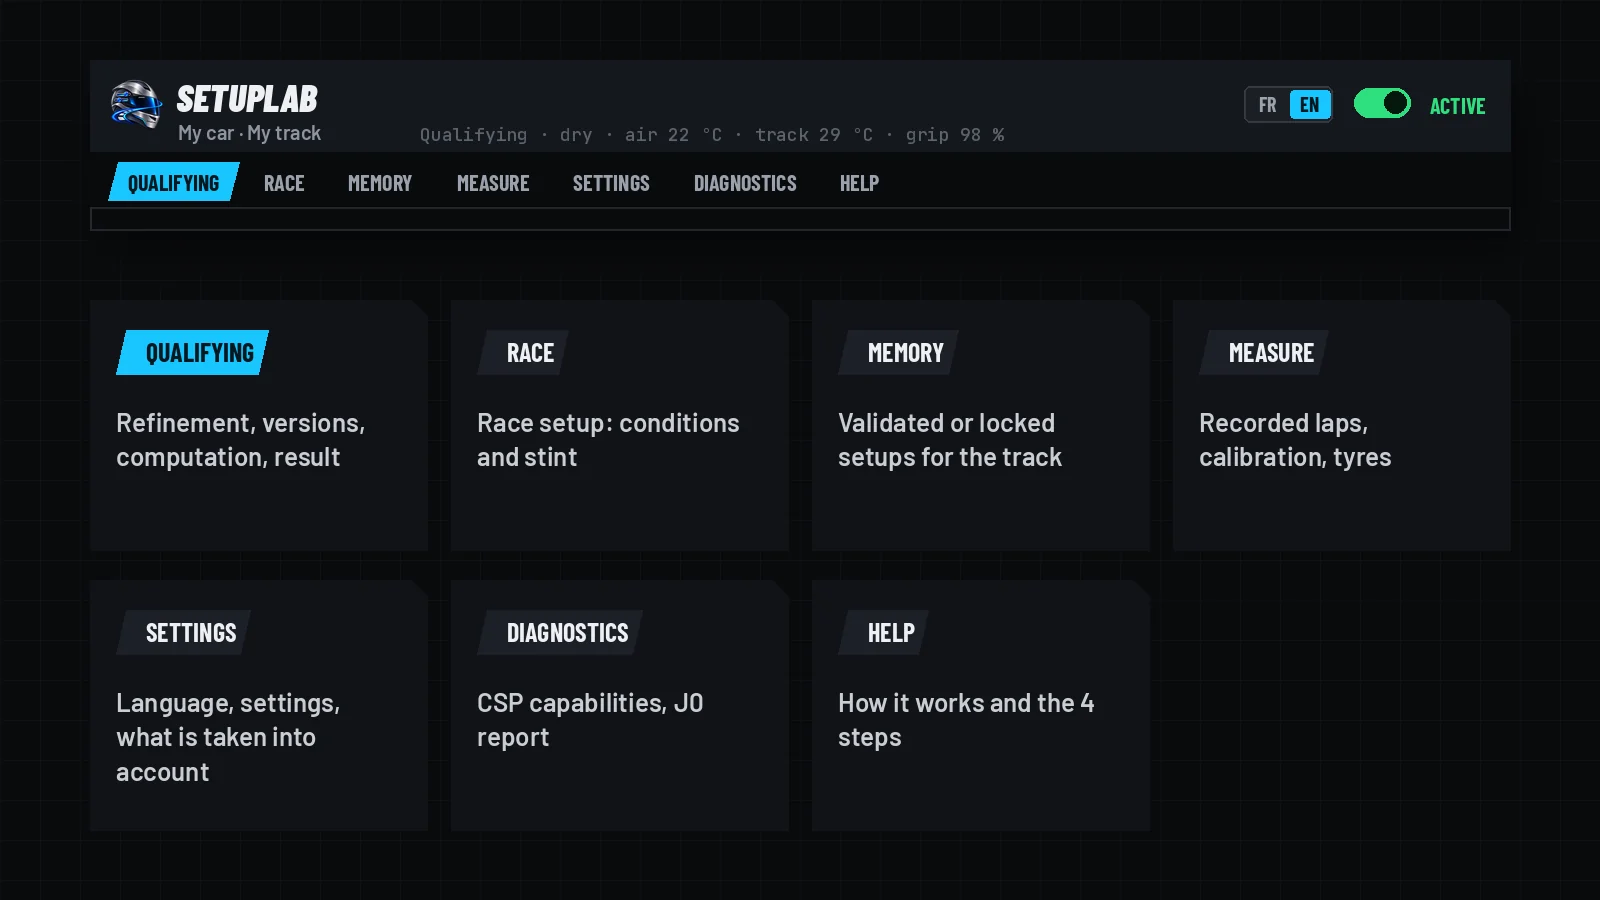
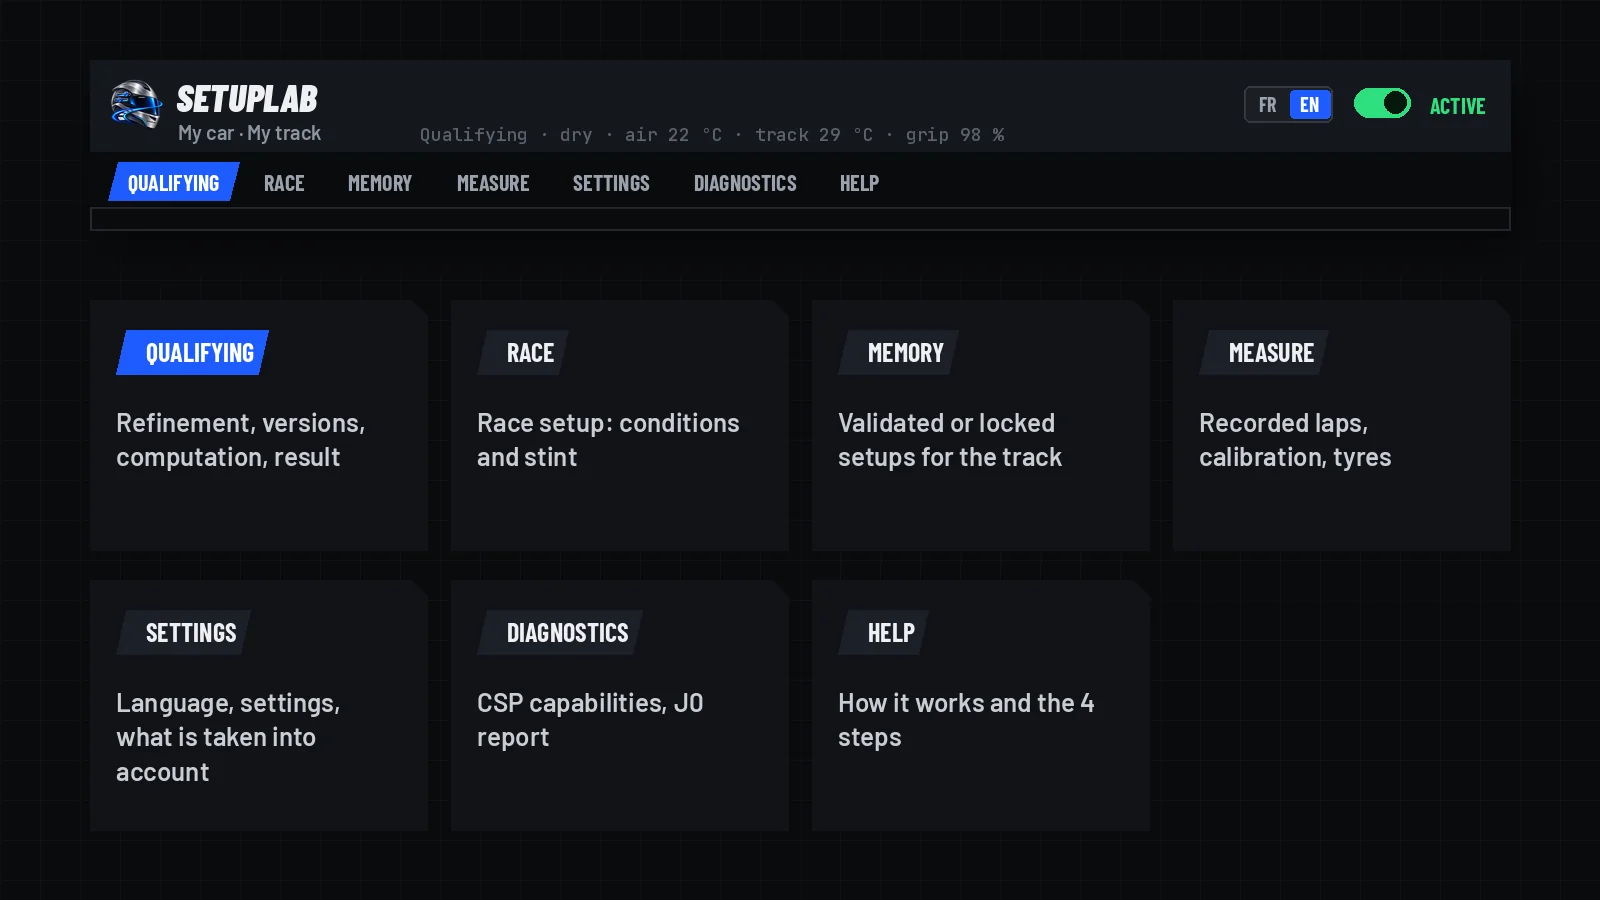
Notice SetupLab : bleu du casque de la bannière
Claude-Session: https://claude.ai/code/session_01S9ENfjK2yy9rx4wsDnry6u

Changed region(s): [[0.0625, 0.3422, 0.1875, 0.4356], [0.0625, 0.1556, 0.1562, 0.2489], [0.7812, 0.0933, 0.8438, 0.1556]]

diff --git a/index.html b/index.html
@@ -15,7 +15,7 @@
 @font-face{font-family:'Barlow Condensed';src:url(fonts/barlowc-700.woff2) format('woff2');font-weight:700;font-display:swap}
 @font-face{font-family:'Barlow Condensed';src:url(fonts/barlowc-800i.woff2) format('woff2');font-weight:800;font-style:italic;font-display:swap}
 @font-face{font-family:'JetBrains Mono';src:url(fonts/jbmono-500.woff2) format('woff2');font-weight:500;font-display:swap}
-:root{--bg:#0A0B0E;--bg2:#0d0f13;--panel:#111318;--panel2:#17191E;--line:#23272E;--line2:#3A404C;--cy:#18C5FF;--cy2:#6FDBFF;--cyd:#0E4258;
+:root{--bg:#0A0B0E;--bg2:#0d0f13;--panel:#111318;--panel2:#17191E;--line:#23272E;--line2:#3A404C;--bl:#1F5CFF;--cy:#5B8CFF;--cy2:#8FB0FF;--cyd:#14307A;
 --tx:#EEF0F3;--tx2:#C9CDD3;--mut:#8D94A0;--dim:#5C626C;--or:#FFC23D;--gr:#2EE07F;--rd:#FF5A4E;--yl:#FFC23D;--vi:#B26CFF;
 --r:14px;--r2:10px;--head:64px;--ease:cubic-bezier(.2,.7,.2,1);--sh:0 10px 30px -12px rgba(0,0,0,.6)}
 *,*::before,*::after{box-sizing:border-box}
@@ -24,7 +24,7 @@ html{scroll-behavior:smooth;scroll-padding-top:calc(var(--head) + 16px);-webkit-
 body{margin:0;overflow-anchor:none;background:var(--bg);color:var(--tx);font:400 17px/1.6 Barlow,system-ui,sans-serif;overflow-x:hidden}
 img,video{display:block;max-width:100%}
 a{color:var(--cy);text-decoration:none}a:hover{color:var(--cy2)}
-code{font:500 .86em/1.4 'JetBrains Mono',ui-monospace,monospace;color:var(--cy2);background:#06222D;border:1px solid #0E4258;border-radius:6px;padding:.05em .38em;overflow-wrap:anywhere}
+code{font:500 .86em/1.4 'JetBrains Mono',ui-monospace,monospace;color:var(--cy2);background:#0A1638;border:1px solid #1A3270;border-radius:6px;padding:.05em .38em;overflow-wrap:anywhere}
 :focus-visible{outline:2px solid var(--cy);outline-offset:3px;border-radius:6px}
 .sr{position:absolute;width:1px;height:1px;overflow:hidden;clip:rect(0 0 0 0);white-space:nowrap}
 .h{font-family:'Barlow Condensed',sans-serif;font-weight:800;font-style:italic;letter-spacing:.01em;text-transform:uppercase;line-height:1}
@@ -40,7 +40,7 @@ code{font:500 .86em/1.4 'JetBrains Mono',ui-monospace,monospace;color:var(--cy2)
 .search input{width:100%;height:42px;border-radius:12px;border:1px solid var(--line2);background:var(--panel);color:var(--tx);font:400 16px Barlow;padding:0 72px 0 42px;transition:border-color .2s,box-shadow .2s}
 .search input::placeholder{color:var(--dim)}
 .search input::-webkit-search-cancel-button{-webkit-appearance:none;appearance:none}
-.search input:focus{outline:none;border-color:var(--cy);box-shadow:0 0 0 4px rgba(24,197,255,.15)}
+.search input:focus{outline:none;border-color:var(--cy);box-shadow:0 0 0 4px rgba(31,92,255,.15)}
 .search svg{position:absolute;left:13px;top:50%;translate:0 -50%;width:18px;height:18px;color:var(--mut);pointer-events:none}
 .search kbd{position:absolute;right:10px;top:50%;translate:0 -50%;font:500 12px 'JetBrains Mono';color:var(--mut);border:1px solid var(--line2);border-radius:6px;padding:2px 7px;pointer-events:none}
 .search .count{position:absolute;right:12px;top:50%;translate:0 -50%;font:500 12px 'JetBrains Mono';color:var(--cy)}
@@ -49,7 +49,7 @@ code{font:500 .86em/1.4 'JetBrains Mono',ui-monospace,monospace;color:var(--cy2)
 .lang button{all:unset;cursor:pointer;font:700 15px/1 'Barlow Condensed';letter-spacing:.08em;color:var(--mut);padding:7px 10px;border-radius:7px;transition:background .2s,color .2s}
 .lang button:hover{color:#fff}
 .lang button:focus-visible{outline:2px solid var(--cy);outline-offset:1px}
-.lang button[aria-pressed=true]{background:var(--cy);color:#031820;clip-path:polygon(5px 0,100% 0,calc(100% - 5px) 100%,0 100%)}
+.lang button[aria-pressed=true]{background:var(--bl);color:#fff;clip-path:polygon(5px 0,100% 0,calc(100% - 5px) 100%,0 100%)}
 .root[hidden]{display:none!important}
 .top .gh{display:inline-flex;align-items:center;gap:8px;color:var(--tx2);font-weight:600;font-size:15px}
 .top .gh svg{width:20px;height:20px}
@@ -65,7 +65,7 @@ code{font:500 .86em/1.4 'JetBrains Mono',ui-monospace,monospace;color:var(--cy2)
 .toc a{display:grid;grid-template-columns:30px minmax(0,1fr);gap:6px;align-items:baseline;padding:8px 10px;border-radius:10px;color:var(--tx2);font-weight:600;font-size:15px;line-height:1.25;transition:background .2s,color .2s}
 .toc a span{font:800 italic 16px 'Barlow Condensed';color:var(--dim)}
 .toc a:hover{background:var(--panel)}
-.toc a.on{background:linear-gradient(90deg,rgba(24,197,255,.16),rgba(24,197,255,.02));color:#fff;box-shadow:inset 3px 0 0 var(--cy)}
+.toc a.on{background:linear-gradient(90deg,rgba(31,92,255,.16),rgba(31,92,255,.02));color:#fff;box-shadow:inset 3px 0 0 var(--cy)}
 .toc a.on span{color:var(--cy)}
 .toc a.dim{opacity:.35}
 @media (max-width:1100px){
@@ -79,15 +79,15 @@ main{min-width:0;padding-bottom:80px}
 /* héros */
 .hero{display:grid;grid-template-columns:minmax(0,1.05fr) minmax(0,1fr);gap:clamp(20px,3vw,40px);align-items:center;padding:clamp(28px,5vw,64px) 0 clamp(20px,3vw,36px)}
 .hero h1{font-size:clamp(40px,4.9vw,76px);margin:.2em 0 .25em}
-.hero h1 em{font-style:inherit;color:var(--cy)}
+.hero h1 em{font-style:inherit;color:var(--bl)}
 .hero .lead{font-size:clamp(17px,1.6vw,20px);color:var(--tx2);max-width:60ch;margin:0 0 22px}
 .hero .stats{display:flex;flex-wrap:wrap;gap:10px;margin:0 0 26px}
 .hero .stats .chip{font-size:14px;color:var(--tx);border-color:var(--line2);background:var(--panel)}
 .hero .stats .chip b{color:var(--cy);font-weight:500}
 .cta{display:flex;flex-wrap:wrap;gap:12px}
 .btn{display:inline-flex;align-items:center;gap:10px;height:48px;padding:0 30px;border-radius:0;clip-path:polygon(12px 0,100% 0,calc(100% - 12px) 100%,0 100%);font-style:italic;font:700 18px 'Barlow Condensed';letter-spacing:.06em;text-transform:uppercase;transition:transform .2s var(--ease),box-shadow .2s,background .2s}
-.btn.pri{background:var(--cy);color:#031820;box-shadow:0 10px 30px -10px rgba(24,197,255,.7)}
-.btn.pri:hover{transform:translateY(-2px);color:#031820}
+.btn.pri{background:var(--bl);color:#fff;box-shadow:0 10px 30px -10px rgba(31,92,255,.7)}
+.btn.pri:hover{transform:translateY(-2px);color:#fff}
 .btn.sec{color:var(--tx);background:var(--panel2);box-shadow:inset 0 0 0 1px var(--line2)}
 .btn.sec:hover{border-color:var(--cy);color:#fff}
 .hero figure{margin:0;border-radius:18px;overflow:hidden;border:1px solid var(--line);box-shadow:var(--sh);aspect-ratio:1983/793;background:var(--panel)}
@@ -123,7 +123,7 @@ main{min-width:0;padding-bottom:80px}
 /* chapitre */
 .chapter{padding-top:clamp(36px,5vw,64px);margin-top:clamp(36px,5vw,64px);border-top:1px solid var(--line)}
 .ch-h{display:grid;grid-template-columns:auto minmax(0,1fr) auto;gap:6px 20px;align-items:end;margin-bottom:22px}
-.ch-h .num{font:800 italic clamp(56px,7vw,96px)/.8 'Barlow Condensed';color:transparent;-webkit-text-stroke:2px var(--cy);grid-row:span 2}
+.ch-h .num{font:800 italic clamp(56px,7vw,96px)/.8 'Barlow Condensed';color:transparent;-webkit-text-stroke:2px var(--bl);grid-row:span 2}
 .ch-h h2{margin:0;font-size:clamp(30px,3.6vw,52px)}
 .ch-h p{margin:0;color:var(--tx2);grid-column:2}
 .ch-h .chip{grid-row:1;grid-column:3;align-self:center}
@@ -141,9 +141,9 @@ main{min-width:0;padding-bottom:80px}
 .topic:hover{border-color:var(--line2)}
 .topic{position:relative}.topic::after{content:'';position:absolute;top:-1px;right:-1px;width:17px;height:17px;pointer-events:none;background:linear-gradient(to top right,transparent calc(50% - 1px),var(--line) calc(50% - .5px),var(--line) calc(50% + .5px),transparent calc(50% + 1px))}
 .topic:hover::after{background:linear-gradient(to top right,transparent calc(50% - 1px),var(--line2) calc(50% - .5px),var(--line2) calc(50% + .5px),transparent calc(50% + 1px))}
-.topic.new::after{background:linear-gradient(to top right,transparent calc(50% - 1px),#0E4258 calc(50% - .5px),#0E4258 calc(50% + .5px),transparent calc(50% + 1px))}
+.topic.new::after{background:linear-gradient(to top right,transparent calc(50% - 1px),#1A3270 calc(50% - .5px),#1A3270 calc(50% + .5px),transparent calc(50% + 1px))}
 .topic h3{margin:0 0 4px;font:700 22px/1.15 'Barlow Condensed';text-transform:uppercase;letter-spacing:.02em;display:flex;gap:10px;align-items:baseline}
-.topic h3 .t{font:500 12px 'JetBrains Mono';color:var(--cy);letter-spacing:0;text-transform:none;background:#06222D;border:1px solid #0E4258;border-radius:6px;padding:2px 7px;cursor:pointer;white-space:nowrap}
+.topic h3 .t{font:500 12px 'JetBrains Mono';color:var(--cy);letter-spacing:0;text-transform:none;background:#0A1638;border:1px solid #1A3270;border-radius:6px;padding:2px 7px;cursor:pointer;white-space:nowrap}
 .topic h3 .t:hover{background:#0a2c3a}
 .topic .path{margin:0 0 10px;font:500 13px/1.45 'JetBrains Mono';color:var(--mut);overflow-wrap:anywhere}
 .topic ul{margin:0;padding:0;list-style:none;display:grid;gap:8px}
@@ -155,12 +155,12 @@ main{min-width:0;padding-bottom:80px}
 .topic dd{display:inline;margin:0;color:#E6C98A}
 .topic.more{background:linear-gradient(180deg,#0f1216,var(--panel));border-style:dashed}
 .topic h3 .tag{flex:none;font:700 12px/1 'Barlow Condensed';letter-spacing:.14em;color:#031820;background:var(--or);border-radius:6px;padding:4px 7px;align-self:center}
-.topic.new{border:1px solid #0E4258;border-style:solid;background:linear-gradient(180deg,#06222D,var(--panel));box-shadow:inset 3px 0 0 var(--cy)}
-.topic.new h3 .tag{background:var(--cy)}
+.topic.new{border:1px solid #1A3270;border-style:solid;background:linear-gradient(180deg,#0A1638,var(--panel));box-shadow:inset 3px 0 0 var(--cy)}
+.topic.new h3 .tag{background:var(--bl);color:#fff}
 .topic.wide{grid-column:1/-1}
 .tbl{overflow-x:auto;margin-top:6px;border-radius:10px;border:1px solid var(--line)}
 .tbl table{width:100%;border-collapse:collapse;font-size:15px;min-width:420px}
-.tbl th{font:700 14px 'Barlow Condensed';letter-spacing:.08em;text-transform:uppercase;color:var(--cy);background:#06222D;text-align:left;padding:9px 12px}
+.tbl th{font:700 14px 'Barlow Condensed';letter-spacing:.08em;text-transform:uppercase;color:var(--cy);background:#0A1638;text-align:left;padding:9px 12px}
 .tbl td{padding:9px 12px;border-top:1px solid var(--line);color:var(--tx2);vertical-align:top}
 .tbl td:first-child{color:#fff;font-weight:600}
 mark{background:rgba(255,194,61,.28);color:#fff;border-radius:3px;padding:0 1px}
